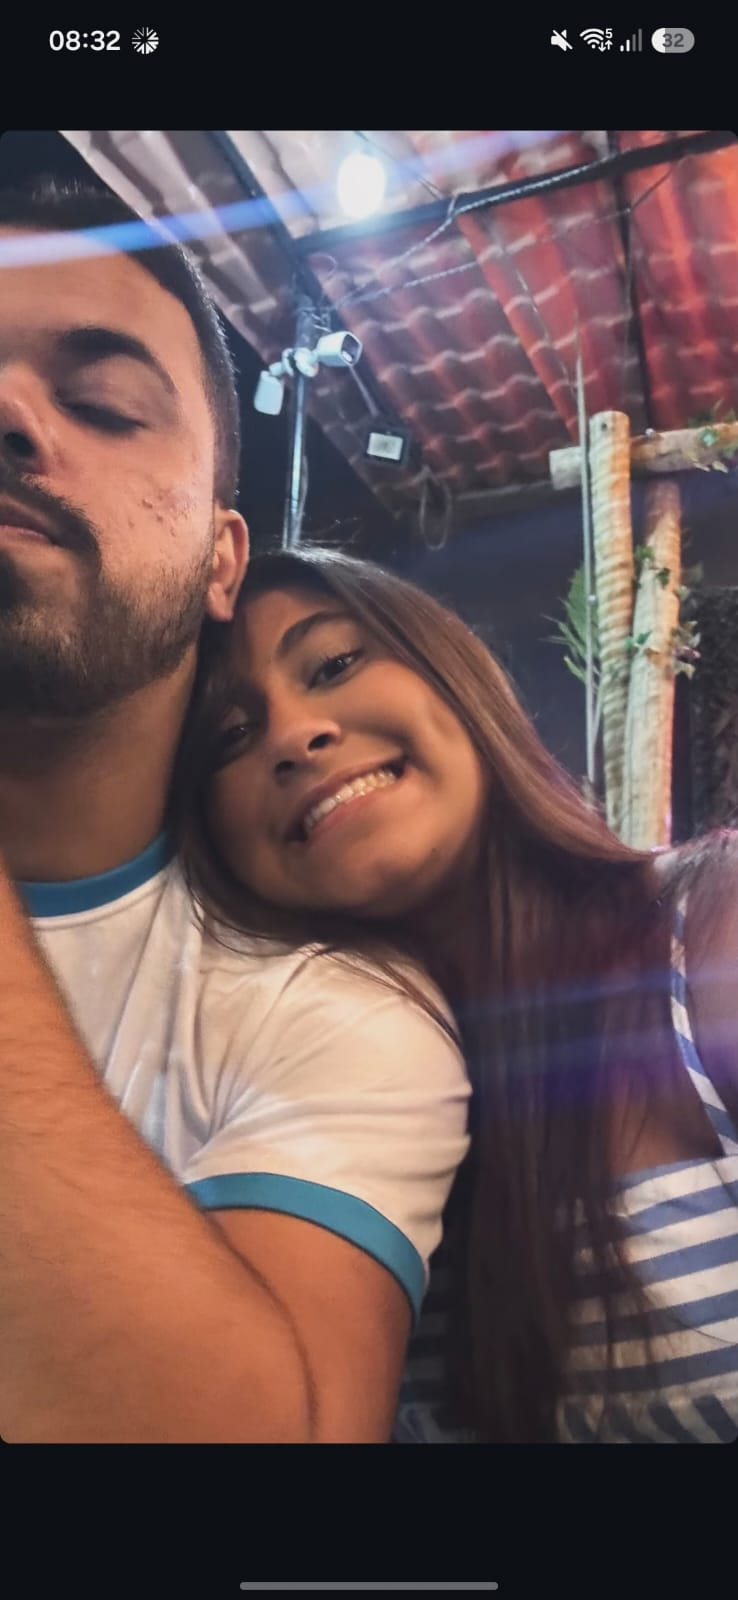
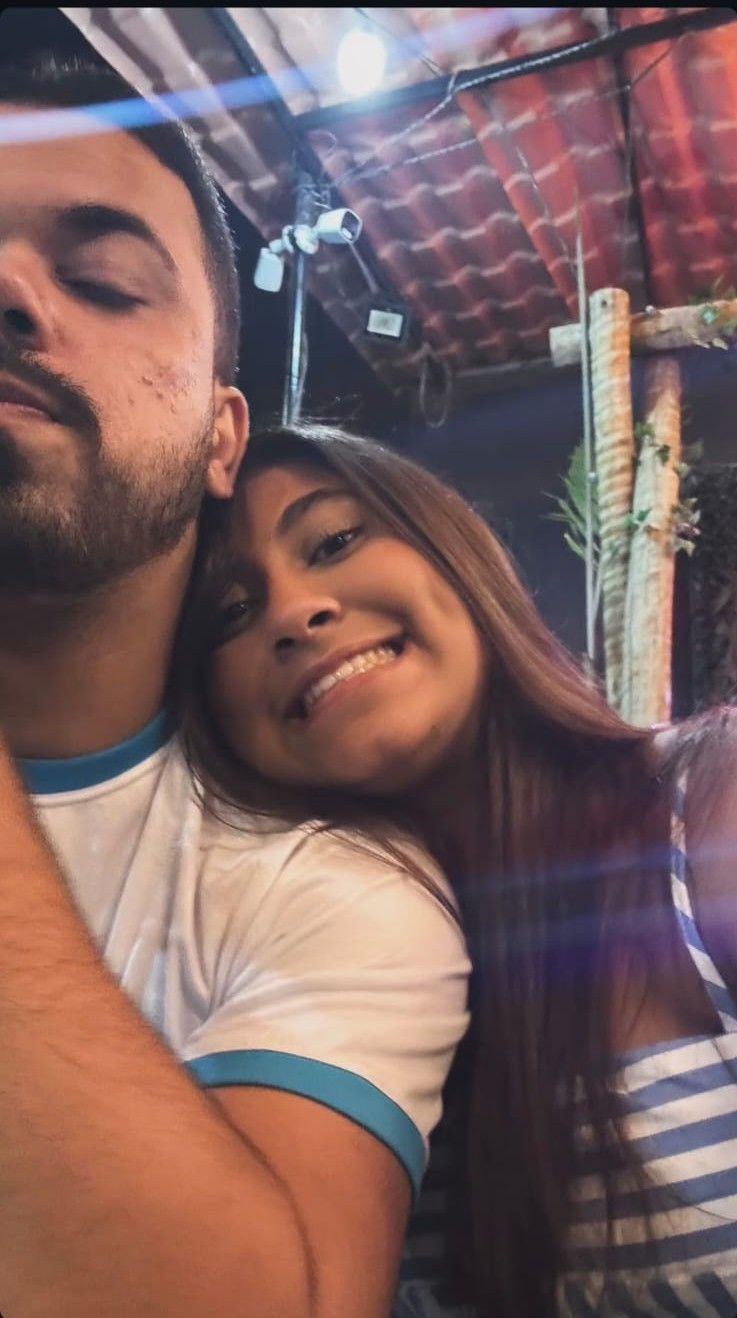
Personalize unscripted memory captions

diff --git a/app/love-story.tsx b/app/love-story.tsx
@@ -130,25 +130,25 @@ const unscriptedDates = [
   {
     src: "/memories/novas-ultimas/eu_comeria_hamburguer_agridoce_por_voce.jpeg",
     act: "ato 01 · amor agridoce",
-    title: "Eu comeria por você",
+    title: "Te amo comendo hambúrguer agridoce",
     text: "Eu comeria hambúrguer agridoce por você. E olha que isso já é uma declaração bem séria.",
   },
   {
     src: "/memories/novas-ultimas/foto_fofa_na_burgueria_79.jpeg",
     act: "ato 02 · mesa para dois",
-    title: "Burgueria 79",
+    title: "Nossa foto mais bonita juntos",
     text: "Um coração no meio da foto e duas pessoas fingindo que esse date bonito é a coisa mais normal do mundo.",
   },
   {
     src: "/memories/novas-ultimas/fotinha_fofa_depois_de_voce_tomar_dreher_no_carioca.jpeg",
     act: "ato 03 · depois do Dreher",
-    title: "Sóbria de beleza",
+    title: "Te amo quando tu tá 3.5 de Dreher",
     text: "A expressão serena de quem tomou Dreher no Carioca e, mesmo assim, ainda saiu bonita na foto.",
   },
   {
     src: "/memories/novas-ultimas/minha_ana_castela.jpeg",
     act: "ato 04 · participação especial",
-    title: "Minha Ana Castela",
+    title: "Te amo até vestida de Ana Castela",
     text: "Chapéu na cabeça, pose de boiadeira e o meu coração completamente sem defesa.",
   },
 ];
